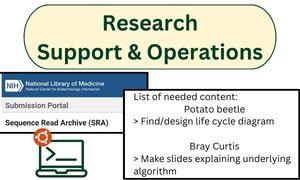
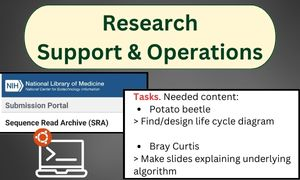
updated services page

diff --git a/pages/services.md b/pages/services.md
@@ -42,6 +42,7 @@ header:
 <br />
 <br />
 
+<a name="Top"></a>
 # My Mission
 <div id="container">
 <b>Personalized solutions for individual needs.</b><br />
@@ -50,13 +51,14 @@ I help you, the busy scientists, improve your productivity, make deadlines, and 
 <br />
 
 # How It Works
-1. Take a look at the different types of services available.
-2. <a href="../contact/index. html">Contact me</a> to discuss your specific needs.
-3. We will agree on a personalized service offer that suits all your needs.
-4. We will co-sign a simple contract so that you and I know what we can expect from each other in the most transparent way.
-5. I will do the work and communicate with you and your team regularly.
-6. I will send you an invoice at the agreed upon time(s) after completion of the milestones or services.
-7. I hope that I can continue supporting you on future projects and tasks.  &#128513;
+1. Pick a service type.
+2. <a href="../contact/index. html">Discuss your specific needs.</a>
+3. Receive a personalized service offer that suits all your needs.
+4. Agree to a simple contract so we know what to expect from each other in the most transparent way.
+5. Get regular communication while work is in progress.
+6. Receive the deliverables.
+7. Pay the invoice after completion of each milestone or services.
+8. Continue working together on future projects and tasks if satisfied.  &#128513;
 
 <br />
 
@@ -81,7 +83,25 @@ Click on the icons below to jump to each topic or scroll down.
 
   <div class="medium-4 column">
     <a href="#Editing"><img src="../images/services-editing.jpg" style="border:1px solid black"></a>
-    <p><a href="#Editing">Scientific Editing and Proofreading</a></p>
+    <p><a href="#Editing">Editing and Proofreading <br />
+    (Scientific and General)</a></p>
+  </div>
+</div>
+
+<div class="row">
+  <div class="medium-4 column">
+    <a href="#TechWriting"><img src="../images/services-technical-scientific-writing.jpg" style="border:1px solid black"></a>
+    <p><a href="#TechWriting">Technical and Scientific Writing</a></p>
+  </div>
+
+  <div class="medium-4 column">
+    <a href="#SciWriting"><img src="../images/services-science-writing.jpg" style="border:1px solid black"></a>
+    <p><a href="#SciWriting">Science Writing</a></p>
+  </div>
+
+  <div class="medium-4 column">
+    <a href="#Consultations"><img src="../images/services-education-meetings.jpg" style="border:1px solid black"></a>
+    <p><a href="#Consultations">Consultations</a></p>
   </div>
 </div>
 
@@ -153,13 +173,15 @@ Check out my research portfolio to learn about my experiences in data analysis a
 <br /><br />
 <a href="../contact/index.html">Contact me!</a>
 
+<p style="text-align:right;"><a href="#Top">Back to top</a></p>
+
 <br /><br />
 <p style="text-align:center;"><font size="+3">~~~~~~~~~~~~~~~~~~~~~~~~~~~~~</font></p>
 <br /><br />
 
+<a name="Rsupport"></a>
 <div style="text-align:center;"><img src="../images/services-Rsupport.jpg" style="border:1px solid black"></div>
 
-<a name="Rsupport"></a>
 ## Research Support and Operations
 Delegate off-loadable tasks to alleviate your busy schedule. Get the help you need to meet deadlines. Boost productivity and improve output!
 
@@ -180,20 +202,23 @@ Here are some examples. Read more about how clients and past employers were supp
   <div class="medium-4 columns">
     <p style="text-align: center;">
     <font size="+1"><b>Science Operations</b></font><br /><br />
-    Handle negotiations with vendors for sequencing and consumable prices and deliver ready-to-use price offers (EU, CH, UK). Complete miscellaneous off-loadable tasks that are getting in the way of your meetings and other priorities.</p>
+    Handle negotiations with vendors for sequencing and consumable prices and deliver ready-to-use price offers (EU, CH, UK). Data entry. Complete miscellaneous off-loadable tasks that are getting in the way of your meetings and other priorities.</p>
   </div>
 </div>
 
 <br /><br />
 <a href="../contact/index.html">Contact me!</a>
 
+<p style="text-align:right;"><a href="#Top">Back to top</a></p>
+
 <br /><br />
 <p style="text-align:center;"><font size="+3">~~~~~~~~~~~~~~~~~~~~~~~~~~~~~</font></p>
 <br /><br />
 
+<a name="Editing"></a>
 <div style="text-align:center;"><img src="../images/services-editing.jpg" style="border:1px solid black"></div>
 
-<a name="Editing"></a>
+
 ## Editing and Proofreading (Scientific + General)
 
 Disseminate your ideas, attract customers, and apply to prestigious agencies in proper English!
@@ -312,3 +337,89 @@ Unless requested, the reference section of scientific documents is not checked b
 <script src="https://cdn.logwork.com/widget/currency_converter.js"></script>
 <a href="https://logwork.com/free-currency-converter-calculator" class="currency_convertor" data-currencies="EUR,USD,JPY,GBP,CNY,INR">Currency Converter</a>
 </div>
+
+
+<p style="text-align:right;"><a href="#Top">Back to top</a></p>
+
+<br /><br />
+<p style="text-align:center;"><font size="+3">~~~~~~~~~~~~~~~~~~~~~~~~~~~~~</font></p>
+<br /><br />
+
+<a name="TechWriting"></a>
+<div style="text-align:center;"><img src="../images/services-technical-scientific-writing.jpg" style="border:1px solid black"></div>
+
+## Technical and Scientific Writing
+Do you have data but haven't had time to write the report?
+
+Do you want to disseminate your company's scientific and technical prowess?
+
+Standardizing experimental procedures forms the foundation of good research practices, but who had time to write up the protocol?
+
+
+#### Here are examples of how I can help:
+
+<br />
+<div class="row" id="container">
+  <div class="medium-4 column">
+    <p style="text-align: center">
+    <font size="+1.5"><b>Technical documents</b></font><br /><br />
+    Experimental protocols<br />
+    User manuals and how-to guides</p>
+  </div>
+  <div class="medium-4 column">
+    <p style="text-align: center">
+    <font size="+1.5"><b>B2B communication</b></font><br /><br />
+    White papers<br />
+    Research reports for stakeholders</p>
+  </div>
+  <div class="medium-4 column">
+    <p style="text-align: center">
+    <font size="+1.5"><b>Academic reports</b></font><br /><br />
+    Manuscripts for peer-reviewed journals<br />
+    Research reports for grant agencies</p>
+  </div>
+</div>
+
+<br />
+<a href="../contact/index.html">Contact me!</a>
+
+<p style="text-align:right;"><a href="#Top">Back to top</a></p>
+
+<br /><br />
+<p style="text-align:center;"><font size="+3">~~~~~~~~~~~~~~~~~~~~~~~~~~~~~</font></p>
+<br /><br />
+
+<a name="SciWriting"></a>
+<div style="text-align:center;"><img src="../images/services-science-writing.jpg" style="border:1px solid black"></div>
+
+## Science Writing
+
+Did you like the articles I've been posting through LinkedIn and Medium?
+
+Get in touch with me if interested.
+
+<br />
+<a href="../contact/index.html">Contact me!</a>
+<p style="text-align:right;"><a href="#Top">Back to top</a></p>
+
+<br /><br />
+<p style="text-align:center;"><font size="+3">~~~~~~~~~~~~~~~~~~~~~~~~~~~~~</font></p>
+<br /><br />
+
+<a name="Consultations"></a>
+<div style="text-align:center;"><img src="../images/services-education-meetings.jpg" style="border:1px solid black"></div>
+
+## Education: 1-on-1 Meetings
+
+You can book 1-on-1 meetings to learn more about specific topics.
+
+Bring your questions so you can ask a real person rather than LLMs.
+
+Save time by asking someone who's already spent months (or years) surfing the internet, experiencing it all live, and asking people the same questions you have!
+
+I recommend starting with the 30 minute package. Take your time to think about everything we discussed, and if you have more questions, book another meeting.
+
+Check the dropdown Consultations menu above to book!
+
+<br />
+<a href="../contact/index.html">Contact me!</a>
